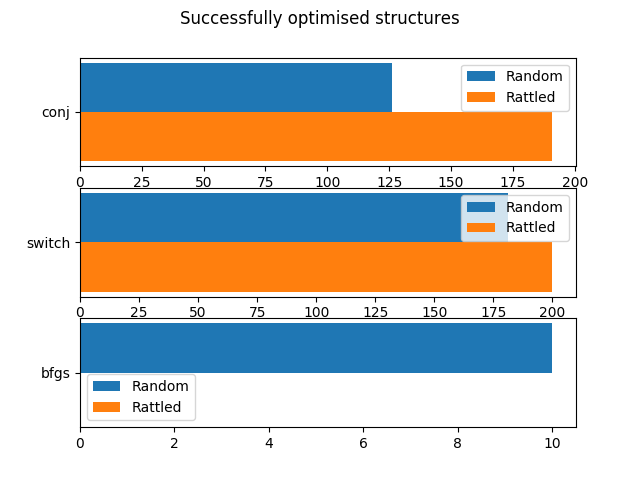
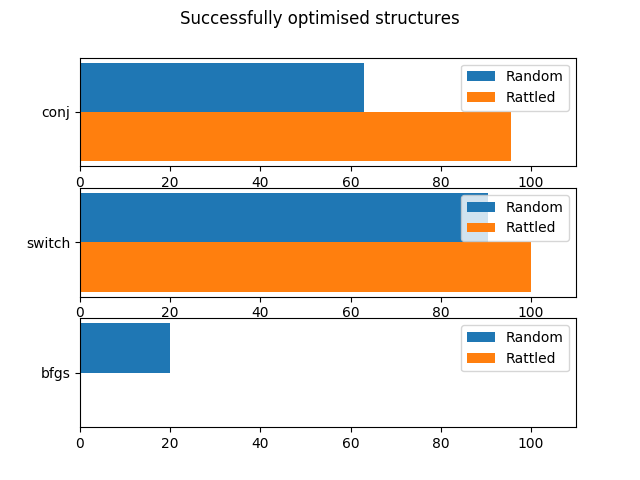
Plots for all methods

diff --git a/read_results.py b/read_results.py
@@ -13,13 +13,13 @@ import matplotlib.pyplot as plt
 
 
 def autolabel(rects):
-    for rect in rects:
-        height = rect.get_height()
-        ax.annotate('{}'.format(height),
-                    xy=(rect.get_x() + rect.get_width() / 2, height),
-                    xytext=(0, 3),  # 3 points vertical offset
-                    textcoords="offset points",
-                    ha='center', va='bottom')
+	for rect in rects:
+		height = rect.get_height()
+		ax.annotate('{}'.format(height),
+					xy=(rect.get_x() + rect.get_width() / 2, height),
+					xytext=(0, 3),  # 3 points vertical offset
+					textcoords="offset points",
+					ha='center', va='bottom')
 
 
 ''' Merge csv files '''
@@ -43,7 +43,7 @@ def autolabel(rects):
 #     f.__next__() # skip the header
 #     for line in f:
 #          fout.write(line)
-    # f.close() # not really needed
+	# f.close() # not really needed
 
 
 ''' Process results '''
@@ -98,24 +98,25 @@ def autolabel(rects):
 
 ran_succ_list = []
 rat_succ_list = []
+totals = {}
 
 df = pd.read_csv('results_test.csv', skipinitialspace=True)
 labels = list(df['method'].unique())
 dicts = {}
 
 for method in labels:
-    random = df[df['structure'].str.contains(
-        "rat") == False].loc[df['method'] == method]
-    rattled = df[df['structure'].str.contains(
-        "rat")].loc[df['method'] == method]
+	random = df[df['structure'].str.contains(
+		"rat") == False].loc[df['method'] == method]
+	rattled = df[df['structure'].str.contains(
+		"rat")].loc[df['method'] == method]
 
-    ran_succ = len([b for b in random['opt_succ'] if b])
-    rat_succ = len([b for b in rattled['opt_succ'] if b])
+	ran_succ = len([b for b in random['opt_succ'] if b])
+	rat_succ = len([b for b in rattled['opt_succ'] if b])
 
-    ran_succ_list.append(ran_succ)
-    rat_succ_list.append(rat_succ)
+	ran_succ_list.append(ran_succ)
+	rat_succ_list.append(rat_succ)
 
-total = len(df.loc[df['method'] == method]) / 2
+	totals[method] = [len(random), len(rattled)]
 
 y = np.arange(1)  # the label locations
 width = 0.35  # the width of the bars
@@ -125,12 +126,20 @@ fig.suptitle('Successfully optimised structures')
 
 count = 0
 for ax in axs:
-	# ax.set_ylim(0,total+10) # set total samples as y limit (add space for view)
-	rects1 = ax.barh(y - width/2, ran_succ_list[count], width, label='Random')
-	rects2 = ax.barh(y + width/2, rat_succ_list[count], width, label='Rattled')
+	totals_ = totals[labels[count]]
+	ran_perc = 0
+	rat_perc = 0
+
+	if totals_[0]:
+		ran_perc = ran_succ_list[count]*100/totals_[0]
+	if totals_[1]:
+		rat_perc = rat_succ_list[count]*100/totals_[1]
+
+	rects1 = ax.barh(y - width/2, ran_perc, width, label='Random') # x% per init category
+	rects2 = ax.barh(y + width/2, rat_perc, width, label='Rattled')
 
 	# Add some text for labels, title and custom x-axis tick labels, etc.
-	# ax.set_xlabel(labels[count])
+	ax.set_xlim(0,110)
 	ax.set_yticks(y)
 	ax.set_yticklabels([labels[count]])
 	ax.invert_yaxis()  # labels read top-to-bottom
